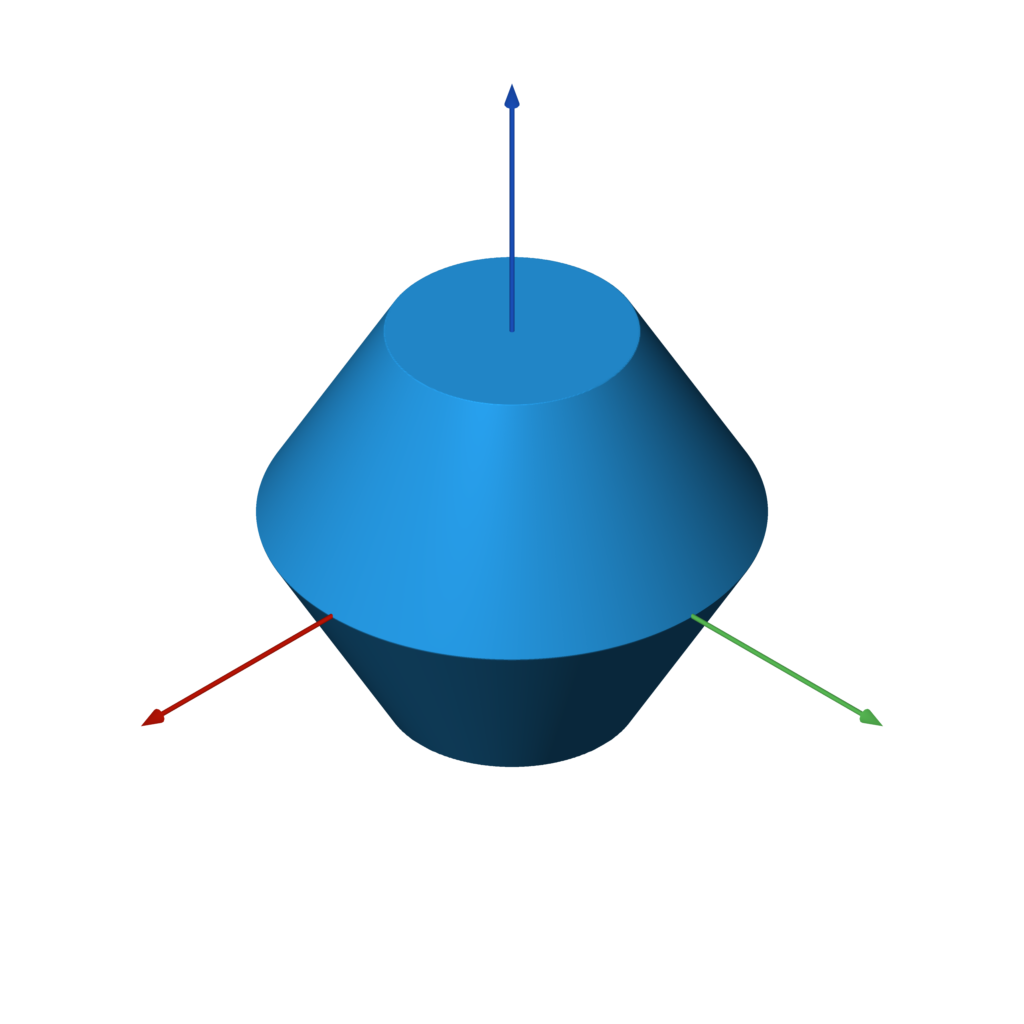
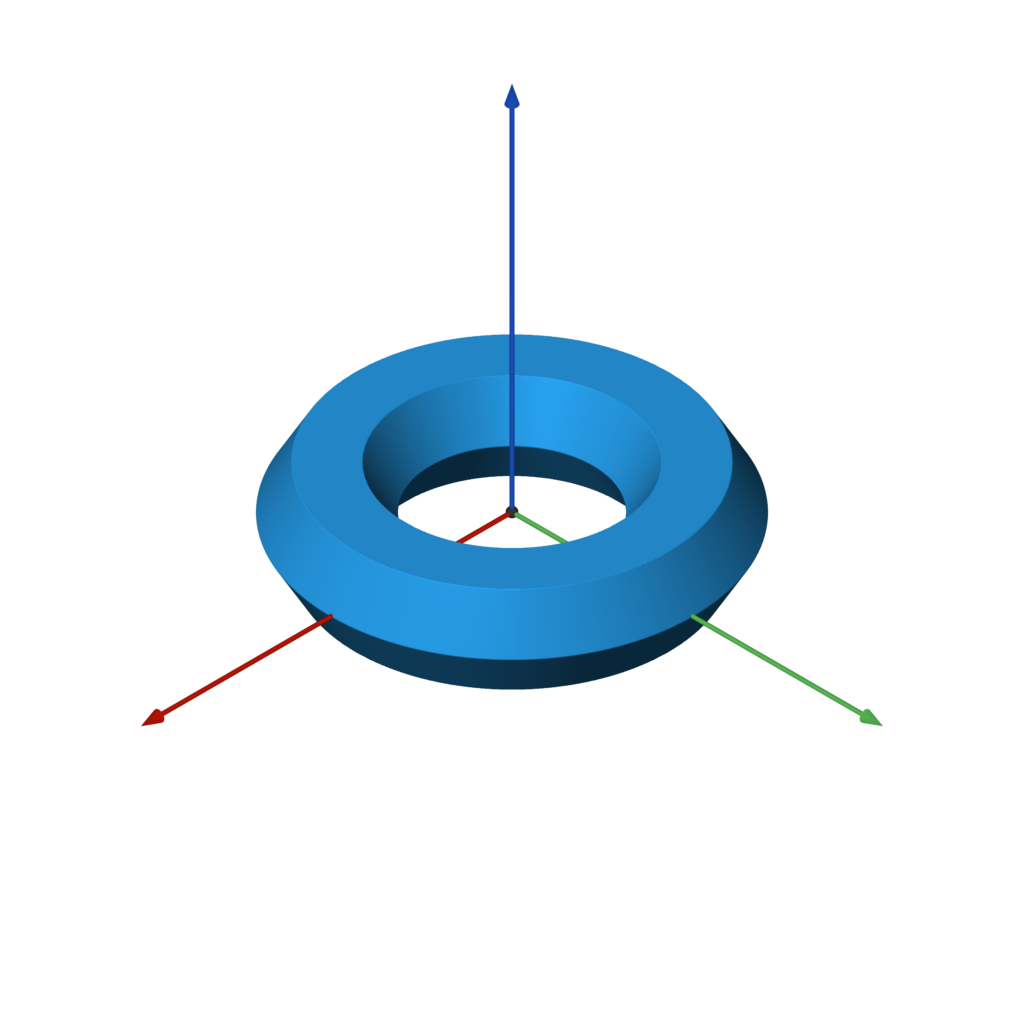
update circular_extrude example

Changed region(s): [[0.2812, 0.25, 0.7188, 0.5938], [0.3125, 0.625, 0.6875, 0.75]]

diff --git a/docs/render.py b/docs/render.py
@@ -24,8 +24,8 @@ f = sphere(1)
 generate(f, 'sphere')
 
 # box(size=1, center=ORIGIN, a=None, b=None)
-f = box(1)
-generate(f, 'box')
+#f = box(1)
+#generate(f, 'cube')
 
 f = box((1, 2, 3))
 generate(f, 'box2')
@@ -202,7 +202,7 @@ f = hexagon(1).extrude(1)
 generate(f, 'extrude')
 
 # circular_extrude(other, h)
-f = hexagon(1).circular_extrude()
+f = hexagon(1).translate([3,0]).circular_extrude()
 generate(f, 'circular_extrude')
 
 # extrude_to(a, b, h, e=ease.linear)

diff --git a/README.md b/README.md
@@ -318,7 +318,7 @@ f = sphere(1, (1, 2, 3)) # translated sphere
 `box(size=1, center=ORIGIN, a=None, b=None)`
 
 ```python
-f = box(1) # all side lengths = 1
+f = box(1) # all side lengths = 1, like a cube
 f = box((1, 2, 3)) # different side lengths
 f = box(a=(-1, -1, -1), b=(3, 4, 5)) # specified by bounds
 ```
@@ -849,7 +849,7 @@ f = hexagon(1).extrude(1)
 `circular_extrude(other)`
 
 ```python
-f = hexagon(1).circular_extrude()
+f = hexagon(1).translate([3,0]).circular_extrude()
 ```
 
 ### extrude_to
